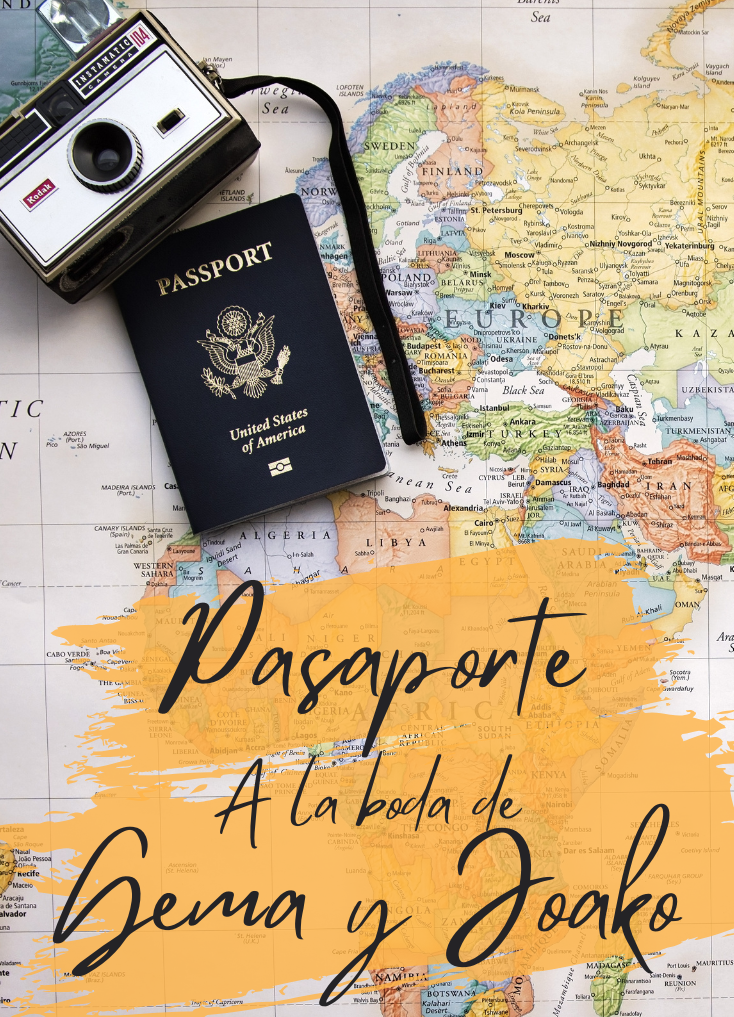
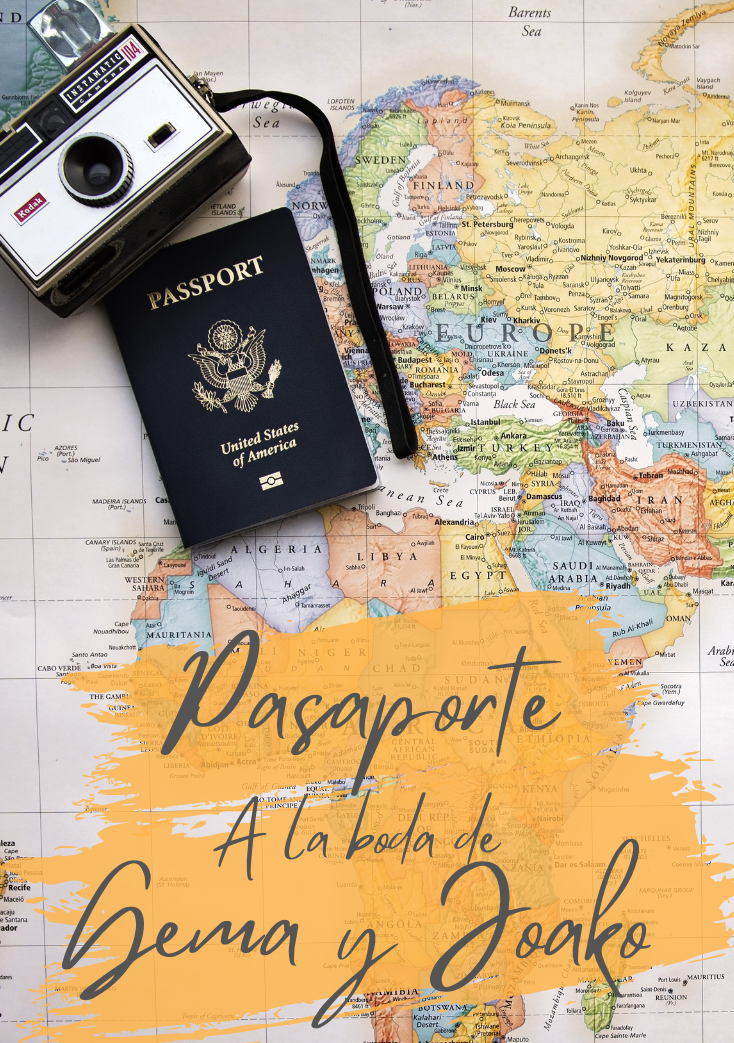
Modificado diseño

diff --git a/index.html b/index.html
@@ -31,23 +31,8 @@
         </div>
     </div>
 
-    <div class="containerIntroduction">
-        <div clasS="containerLogoAnimado">
-            <img class="imgLogo" src="resources/logoAnimado.gif">
-        </div>
-        <div class="containerContentSection">
-            
-            <h3>Después de 15 años juntos</h3>
-            <div class="containerIntruductionImage">
-                <br><br><br><br>
-                <p class="textoMaquinaEscribir">Comenzaremos un nuevo viaje</p>
-                <img class="imgBrujula" src="resources/brujula.gif">
-            </div>
-
-            <div class="containerDownPlaneVideo">
-                <h3>Prepara tus maletas y acompáñanos en este viaje</h3>
-            </div>
-        </div>
+    <div class="container">
+        <img class="imgIntroduccion" src="resources/introduccion.gif">
     </div>
 
     <div class="containerBig">

diff --git a/style/style.css b/style/style.css
@@ -204,3 +204,9 @@ a{
     max-height: 110%; /* Escala la imagen para no superar la altura del contenedor */
     object-fit: contain; /* Ajusta la imagen para que se vea completa sin deformarse */
 }
+
+.imgIntroduccion{
+    max-width: 100%; /* Escala la imagen para no superar el ancho del contenedor */
+    max-height: 100%; /* Escala la imagen para no superar la altura del contenedor */
+    object-fit: contain; /* Ajusta la imagen para que se vea completa sin deformarse */
+}

diff --git a/style/containers.css b/style/containers.css
@@ -8,7 +8,7 @@
     justify-content: center; /* Centrar verticalmente */
     text-align: center;
     background-image: url('../resources/fondoPasaporte.png');
-    background-size: 110% 90%; /* Ajusta la imagen para que cubra todo el div */
+    background-size: 115% 90%; /* Ajusta la imagen para que cubra todo el div */
     background-position: top; /* Centra la imagen */
     background-repeat: no-repeat; /* Evita que la imagen se repita */
 }
